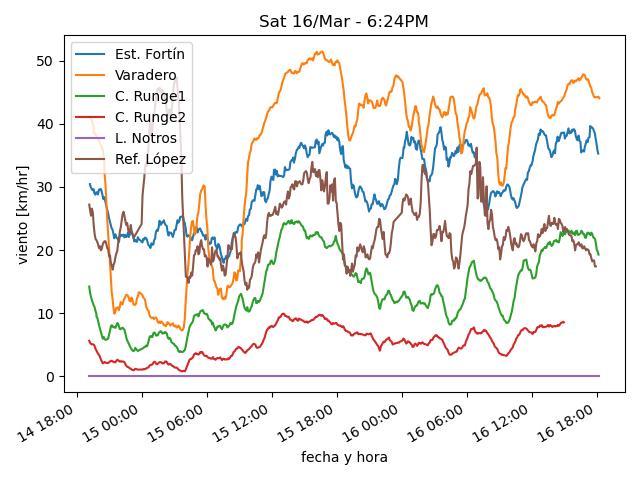
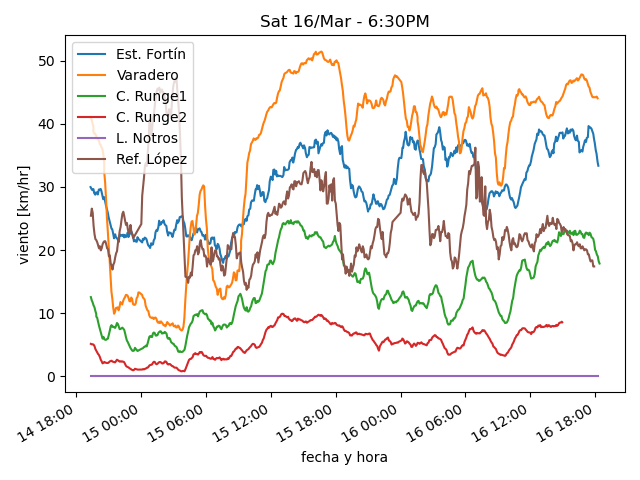
actualiza datos

diff --git a/estaciones/estacion3.html b/estaciones/estacion3.html
@@ -18,22 +18,22 @@
     </tr>
     <tr>
      <td class="stats_data">
-      6:09PM
+      6:24PM
      </td>
     </tr>
     <tr>
      <td class="stats_data">
-      10.5
+      10.1
      </td>
     </tr>
     <tr>
      <td class="stats_data">
-      3.8
+      3.5
      </td>
     </tr>
     <tr>
      <td class="stats_data">
-      62.9
+      63.6
      </td>
     </tr>
     <tr>
@@ -43,7 +43,7 @@
     </tr>
     <tr>
      <td class="stats_data">
-      11.5/17.6 NW
+      10.3/15.2 WNW
      </td>
     </tr>
     <tr>
@@ -58,7 +58,7 @@
     </tr>
     <tr>
      <td class="stats_data">
-      251.1
+      202.9
      </td>
     </tr>
    </tbody>

diff --git a/estaciones/estacion1.html b/estaciones/estacion1.html
@@ -18,7 +18,7 @@
     </tr>
     <tr>
      <td class="stats_data">
-      6:08PM
+      6:18PM
      </td>
     </tr>
     <tr>
@@ -43,7 +43,7 @@
     </tr>
     <tr>
      <td class="stats_data">
-      22.5/32.2 WSW
+      19.2/29.8 W
      </td>
     </tr>
     <tr>
@@ -53,12 +53,12 @@
     </tr>
     <tr>
      <td class="stats_data">
-      0.8
+      0.7
      </td>
     </tr>
     <tr>
      <td class="stats_data">
-      295.0
+      262.0
      </td>
     </tr>
    </tbody>
